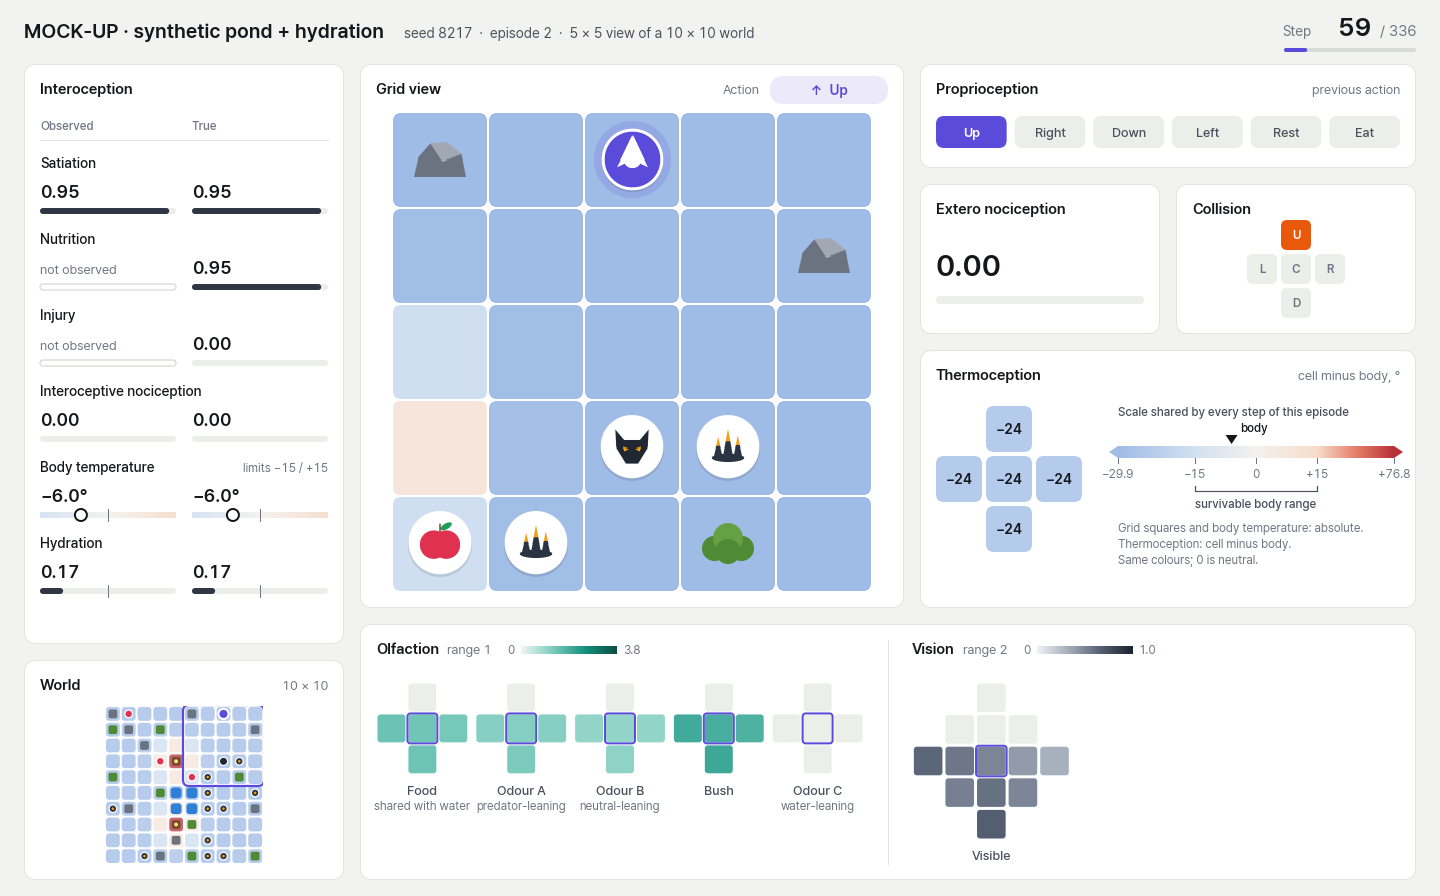
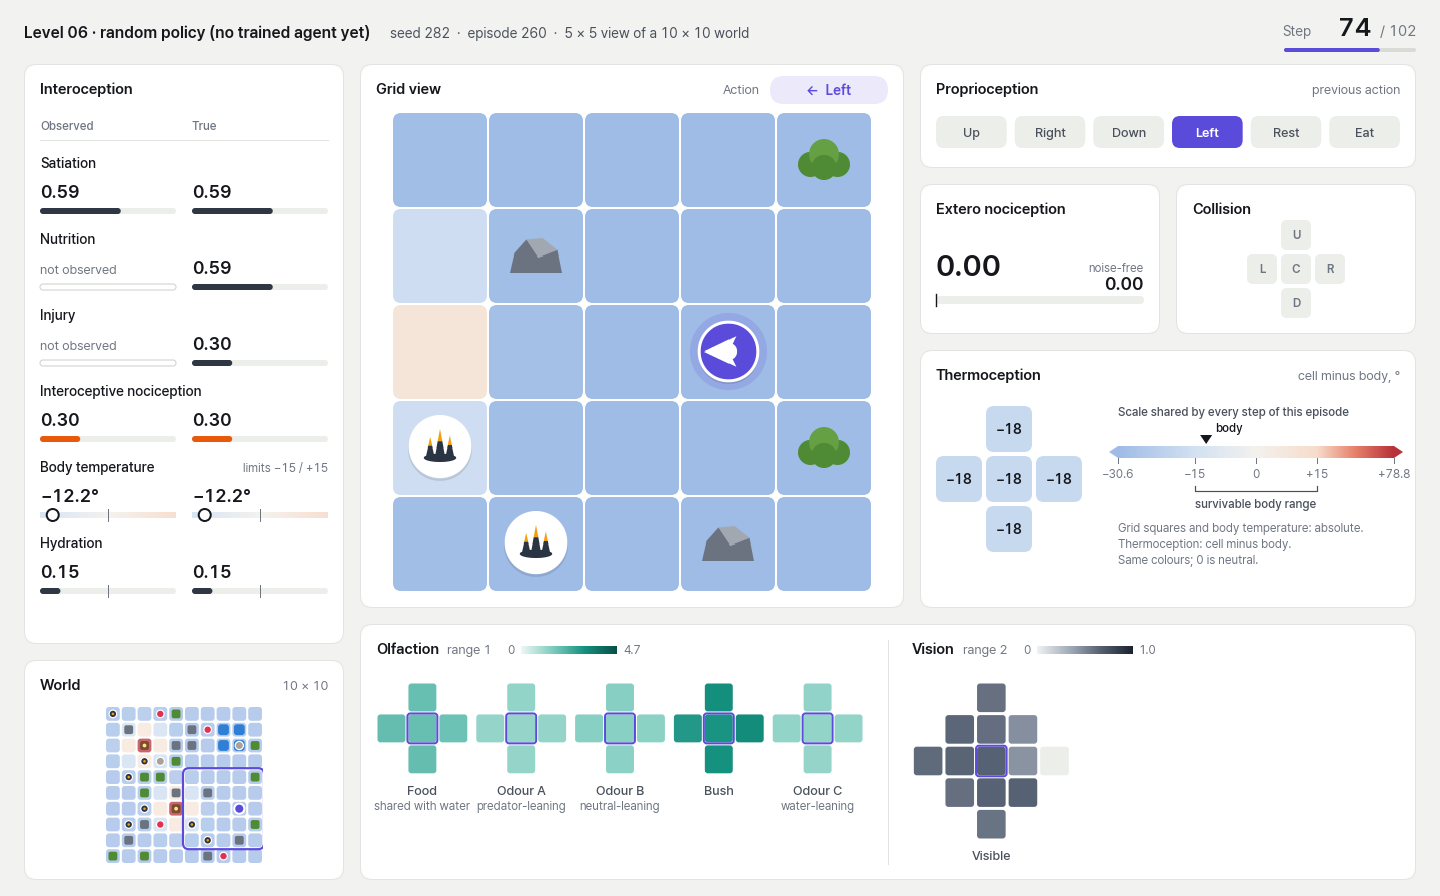
docs(thirst): 🖼 real level-06 dashboard frames replace the mock-ups
The three thirst-artifact frames are now REAL: the environment's own output for
the pond's position, hydration, the smell maps (Odour C now shows the pond's
actual odour, which the mock-up could not), vision, temperature and the cause of
death. There is no trained level-06 agent yet, so the episodes come from the
project's fixture recorder with a SEEDED RANDOM POLICY (400 episodes, two
seeds); the frame title says so. `make_render_frames.py` searches them for three
real moments and states each one's numbers:

- render_a: episode 260, step 74 of 102 -- agent 4+ squares from the pond,
  hydration 30/200 (0.15), injury 30/100; the episode continues.
- render_b: episode 258, step 9 of 48 -- agent in the pond, a predator in the
  adjacent pond cell, both drawn on top of the water; hydration 101/200, right
  on the setpoint tick; injury 6/100.
- render_c: episode 97, final step 53 -- hydration 0, injury 0: a clean thirst
  death while eating, from a start of 33/200.

Three search criteria were wrong on the way and are fixed, each noted in the
script: injury was compared on a 0..1 scale when it is 0..100 (rejected every
real thirst death); frame (b) ranked higher hydration as better and landed on an
over-drinking death (death sits at BOTH ends of the axis); frame (a) ranked
"thirstiest" and landed on hydration 0.0 one step before death. Each now targets
a clearly-alive band away from both death boundaries.
[…]

diff --git a/docs/develop/active/thirst/figures/make_render_frames.py b/docs/develop/active/thirst/figures/make_render_frames.py
@@ -1,16 +1,27 @@
-"""Mock-up frames for the thirst artifact: a REAL level-05 episode, with a
-SYNTHETIC pond and hydration injected, rendered through the real dashboard.
+"""Dashboard frames for the thirst artifact, from REAL level-06 recordings.
 
-What is real: the world, every entity's position at every step, the agent's
-actions, the olfaction/vision/thermal observations.
-What is synthetic: the pond's position (one fixed 2x2 block for the whole
-episode, as the env will do), the hydration values, `water_max_hydration=200`,
-and one "Hydration" observation dimension inserted at THIRST_WATER_PLAN A5's
-offset (directly after Body Temperature) carrying hydration/200 (noise off).
-NOT recomputed: the smell maps. They are the recording's level-05 smell, with
-the level-06 channel LABELS applied.
+Everything in these frames is the environment's own output: the pond's position,
+hydration, the smell maps (including the pond's odour), vision, temperature, and
+the cause of death. There is no trained level-06 agent yet, so the episodes are
+driven by the project's fixture recorder with a SEEDED RANDOM POLICY -- the agent's
+movements are not learned behaviour, and the frames say so in their title.
+
+The recordings are regenerated, not stored (they live under gitignored tmp/). Two
+batches, because a random walker rarely stands in the pond with a predator beside it
+and is not dying, so frame (b) needs the larger pool:
+
+    python scripts/eval/make_render_fixture_recordings.py --cells W1 \\
+        --episodes 80 --max-steps 300 --seed 11 \\
+        --out tmp/20260930_thirst_real/recordings --no-report
+    python scripts/eval/make_render_fixture_recordings.py --cells W1 \\
+        --episodes 320 --max-steps 300 --seed 23 \\
+        --out tmp/20260930_thirst_real/recordings_more --no-report
+
+This script then SEARCHES those episodes for three real moments and renders them:
+  (a) the agent far from the pond with low hydration,
+  (b) the agent standing in the pond with a predator next to it,
+  (c) an episode that ENDED because hydration reached zero (a real thirst death).
 """
-import copy
 import os
 import sys
 from pathlib import Path
@@ -24,172 +35,100 @@ ROOT = Path(__file__).resolve().parents[5]   # docs/develop/active/thirst/figure
 sys.path.insert(0, str(ROOT))
 
 import imageio.v2 as iio
-import src.environment.sensor as S
 from src.environment.dashboard import EpisodeRenderer
 from src.environment.state import select_by_class
 from src.utils.eval_recording import load_episode, load_run_meta
 
-REC = ROOT / "results/JAX_RecurrentPPO/20260921-114858_rppo_basicq2_lvl05_t1none_s42/recordings/10000058"
-EPISODE = "episode_000002.rec.gz"
-OUT = ROOT / "docs/develop/active/thirst/figures"
-MAXH = 200.0
-EDGE = 1   # plan D1: edge_margin 1 -- pond rows/cols 1..8 on a 10x10 world
+RECS = [ROOT / "tmp/20260930_thirst_real/recordings/W1/W1",
+        ROOT / "tmp/20260930_thirst_real/recordings_more/W1/W1"]
+OUT = Path(__file__).resolve().parent
+MAX_STEPS = 300
+for REC in RECS:
+    if not REC.is_dir():
+        sys.exit(f"recordings missing at {REC}; regenerate them with the commands in this "
+                 f"script's docstring (they are gitignored and not stored)")
 
-meta = load_run_meta(REC)
-params = copy.copy(meta["params"])
-object.__setattr__(params, "water_max_hydration", MAXH)
-object.__setattr__(params, "water_enabled", True)
-payload = load_episode(REC / EPISODE)
-snaps = payload["snapshots"]
-T = len(snaps)
-H, W = int(params.height), int(params.width)
+meta = load_run_meta(RECS[0])
+params = meta["params"]
+assert params.water_enabled, "W1 must be the water world (level 06)"
+MAXH = float(params.water_max_hydration)
 is_pred = np.asarray(select_by_class(params, "predator")).astype(bool)
+eps = [e for REC in RECS for e in sorted(REC.glob("episode_*.rec.gz"))]
 
 
-def blocked(t):
-    """Cells no pond may cover: obstacles and active resources (plan: every
-    other entity is placed after the pond and never on it)."""
-    s = snaps[t]
-    cells = {tuple(map(int, p)) for p in np.asarray(s["obs_pos"])}
-    act = np.asarray(s["res_active"])
-    cells |= {tuple(map(int, p)) for i, p in enumerate(np.asarray(s["res_pos"])) if act[i]}
-    return cells
+def cheb(a, b):
+    return max(abs(int(a[0]) - int(b[0])), abs(int(a[1]) - int(b[1])))
 
 
-def block(r, c):
-    return [(r, c), (r, c + 1), (r + 1, c), (r + 1, c + 1)]
+def pond_of(s):
+    return [tuple(map(int, p)) for p in np.asarray(s["water_pos"])]
 
 
-def legal(r, c):
-    return EDGE <= r and r + 1 <= H - 1 - EDGE and EDGE <= c and c + 1 <= W - 1 - EDGE
+best = {"a": None, "b": None, "c": None}
+for ep in eps:
+    pay = load_episode(ep)
+    snaps = pay["snapshots"]
+    T = len(snaps)
+    for t, s in enumerate(snaps):
+        a = tuple(map(int, s["agent_pos"]))
+        pond = pond_of(s)
+        h = float(s["hydration"]) / MAXH
+        d = min(cheb(a, p) for p in pond)
+        preds = [tuple(map(int, q)) for k, q in enumerate(np.asarray(s["animal_pos"])) if is_pred[k]]
+        # (a) far from water and THIRSTY, but clearly alive: not the last step, injury
+        # not lethal, hydration low but off the zero boundary. Ranking by "thirstiest"
+        # drove an earlier version onto hydration 0.0 one step before death -- a death
+        # frame, not a thirsty one -- so aim at ~15% of the maximum instead.
+        inj_a = float(s["injury_level"]) / float(params.max_injury)
+        if d >= 4 and 0.08 < h < 0.3 and inj_a < 0.5 and t < T - 1:
+            key = (abs(h - 0.15),)
+            if best["a"] is None or key < best["a"][0]:
+                best["a"] = (key, ep, t)
+        # (b) standing in the pond, a predator within one square (both in the pond is
+        # best). Drinking, not dying: never the episode's last step, injury not
+        # lethal, and hydration clear of BOTH death boundaries -- death sits at 0 AND
+        # at the maximum, so a full reading here would be an over-drinking death. An
+        # earlier version ranked higher hydration as better and picked exactly that.
+        inj = float(s["injury_level"]) / float(params.max_injury)
+        if a in pond and t < T - 1 and inj < 0.5 and 0.05 < h < 0.95:
+            near = [q for q in preds if cheb(q, a) <= 1]
+            if near:
+                key = (-sum(q in pond for q in near), abs(h - 0.5))
+                if best["b"] is None or key < best["b"][0]:
+                    best["b"] = (key, ep, t)
+    # (c) the episode ENDED (not cut at the step cap) with hydration at zero, and its
+    # injury clearly NOT lethal, so the frame shows one cause of death, not two.
+    # Injury is on a 0..max_injury scale (100 here), NOT 0..1 -- an earlier version
+    # compared the raw value against 1.0 and rejected every real thirst death.
+    last = snaps[-1]
+    inj = float(last["injury_level"]) / float(params.max_injury)
+    if T < MAX_STEPS and float(last["hydration"]) <= 1e-6 and inj < 0.5:
+        key = (inj, -T)                      # least injured, then the longest
+        if best["c"] is None or key < best["c"][0]:
+            best["c"] = (key, ep, T - 1)
 
+missing = [k for k, v in best.items() if v is None]
+if missing:
+    sys.exit(f"no real moment found for frame(s) {missing}; record more episodes")
 
-# --- (b): a step where a predator is next to the agent, both fit one 2x2 pond ---
-fixed_blocked = set().union(*(blocked(t) for t in range(T)))   # never cover any of them, any step
-choice = None
-for t in range(T):
-    a = tuple(map(int, snaps[t]["agent_pos"]))
-    for k, p in enumerate(np.asarray(snaps[t]["animal_pos"])):
-        if not is_pred[k]:
-            continue
-        p = tuple(map(int, p))
-        if p == a or max(abs(p[0] - a[0]), abs(p[1] - a[1])) != 1:
-            continue
-        for r in range(min(a[0], p[0]) - 1, max(a[0], p[0]) + 1):
-            for c in range(min(a[1], p[1]) - 1, max(a[1], p[1]) + 1):
-                cells = block(r, c)
-                if legal(r, c) and a in cells and p in cells \
-                        and not (set(cells) & fixed_blocked):
-                    choice = (t, r, c, a, p)
-                    break
-            if choice:
-                break
-        if choice:
-            break
-    if choice:
-        break
-if choice is None:
-    sys.exit("no step puts a predator next to the agent inside a legal pond block")
-tb, pr, pc, a_b, p_b = choice
-pond = np.array(block(pr, pc), dtype=np.int32)       # [4, 2], every cell, like D2
-
-# --- (a): a step where the agent is far from that pond ---
-def dist_to_pond(t):
-    a = np.asarray(snaps[t]["agent_pos"])
-    return min(max(abs(int(a[0]) - r), abs(int(a[1]) - c)) for r, c in pond)
-ta = max((t for t in range(T) if t != tb), key=lambda t: (dist_to_pond(t) >= 4, -abs(t - tb) * 0, dist_to_pond(t)))
-# --- (c): a CLEAN thirst death. The episode's real final step is a predator
-# kill (injury 1.00), so using it would show two lethal causes at once. Pick
-# instead the latest step with no injury, no predator within one square, and
-# the agent at least 3 squares from the pond; the episode is then TRUNCATED
-# there so the step counter reads k/k. Both facts are stated in the reply.
-def pred_near(t):
-    a = np.asarray(snaps[t]['agent_pos'])
-    for k, q in enumerate(np.asarray(snaps[t]['animal_pos'])):
-        if is_pred[k] and max(abs(int(q[0]) - int(a[0])), abs(int(q[1]) - int(a[1]))) <= 1:
-            return True
-    return False
-clean = [t for t in range(T) if t not in (ta, tb)
-         and float(snaps[t]['injury_level']) == 0.0 and not pred_near(t)
-         and dist_to_pond(t) >= 3]
-if not clean:
-    sys.exit('no clean step for a thirst-death frame')
-tc = max(clean)
-
-HYD = {ta: 34.0, tb: 104.0, tc: 0.0}   # scripted; stated in the reply
-
-# --- inject into every snapshot (pond is fixed per episode) ---
-for t, s in enumerate(snaps):
-    s["water_pos"] = pond
-    s["hydration"] = float(HYD.get(t, 100.0))
-
-# --- one "Hydration" observation dim, directly after Body Temperature (A5) ---
-orig_breakdown = S.get_observation_breakdown
-
-
-def breakdown_with_hydration(p):
-    out = {}
-    for k, v in orig_breakdown(p).items():
-        out[k] = v
-        if k == "Body Temperature":
-            out["Hydration"] = 1
-    return out
-
-
-bd = orig_breakdown(params)
-offset = 0
-for k, v in bd.items():
-    offset += v
-    if k == "Body Temperature":
-        break
-obs = np.asarray(payload["obs"], dtype=np.float32)
-hcol = np.array([snaps[t]["hydration"] / MAXH for t in range(T)], dtype=np.float32)[:, None]
-payload["obs"] = np.concatenate([obs[:, :offset], hcol, obs[:, offset:]], axis=1)
-S.get_observation_breakdown = breakdown_with_hydration
-
-# --- level-06 channel labels (smell), per the thirst session ---
-names = lambda xs: [{"name": n, "qualifier": q} for n, q in xs]
-display = {
-    "Olfaction": {"names": names([
-        ("Food", "shared with water"), ("Odour A", "predator-leaning"),
-        ("Odour B", "neutral-leaning"), ("Bush", ""), ("Odour C", "water-leaning")]),
-        "groups": []},
-    "Visual": {"names": names([("Visible", "")]), "groups": []},
-}
-
-OUT.mkdir(parents=True, exist_ok=True)
-r = EpisodeRenderer(params, meta["icon_config"], payload,
-                    title="MOCK-UP · synthetic pond + hydration",
-                    action_map=meta.get("action_map"), channel_display=display)
-try:
-    for tag, t, what in (("a", ta, "far_from_pond_low_hydration"),
-                         ("b", tb, "drinking_predator_in_pond")):
-        path = OUT / f"render_{tag}_{what}.png"
+names = {"a": "render_a_far_from_pond_low_hydration",
+         "b": "render_b_drinking_predator_in_pond",
+         "c": "render_c_hydration_zero_terminal"}
+for tag in ("a", "b", "c"):
+    _key, ep, t = best[tag]
+    pay = load_episode(ep)
+    r = EpisodeRenderer(params, meta["icon_config"], pay,
+                        title="Level 06 · random policy (no trained agent yet)",
+                        action_map=meta.get("action_map"),
+                        channel_display=meta.get("channel_display"))
+    try:
+        path = OUT / f"{names[tag]}.png"
         iio.imwrite(path, r.frame(t))
-        a = tuple(map(int, snaps[t]["agent_pos"]))
-        print(f"{path.relative_to(ROOT)}  step={t}  agent={a}  "
-              f"hydration={snaps[t]['hydration']:.0f}/200  dist_to_pond={dist_to_pond(t)}")
-finally:
-    r.close()
-
-# --- (c) from a payload TRUNCATED at tc, so the counter reads tc/tc ---
-trunc = dict(payload)
-trunc['snapshots'] = snaps[:tc + 1]
-trunc['obs'] = payload['obs'][:tc + 1]
-trunc['actions'] = np.asarray(payload['actions'])[:tc + 1]
-trunc['rewards'] = np.asarray(payload['rewards'])[:tc + 1]
-rc = EpisodeRenderer(params, meta['icon_config'], trunc,
-                     title='MOCK-UP · synthetic pond + hydration',
-                     action_map=meta.get('action_map'), channel_display=display)
-try:
-    path = OUT / 'render_c_hydration_zero_terminal.png'
-    iio.imwrite(path, rc.frame(tc))
-    a = tuple(map(int, snaps[tc]['agent_pos']))
-    print(f"{path.relative_to(ROOT)}  step={tc} (episode truncated here; real end {T-1})  "
-          f"agent={a}  hydration={snaps[tc]['hydration']:.0f}/200  "
-          f"injury={float(snaps[tc]['injury_level']):.2f}  dist_to_pond={dist_to_pond(tc)}")
-finally:
-    rc.close()
-    S.get_observation_breakdown = orig_breakdown
-print(f"pond top-left (array)={pr, pc}  cells={[tuple(x) for x in pond]}  "
-      f"frame-b predator at {p_b}, agent at {a_b}  obs width {obs.shape[1]} -> {payload['obs'].shape[1]}")
+    finally:
+        r.close()
+    s = pay["snapshots"][t]
+    a = tuple(map(int, s["agent_pos"]))
+    print(f"{path.relative_to(ROOT)}  {ep.parent.parent.parent.name}/{ep.name} step {t}/{len(pay['snapshots']) - 1}  "
+          f"agent={a}  pond={pond_of(s)[0]}+  hydration={float(s['hydration']):.1f}/{MAXH:.0f}  "
+          f"injury={float(s['injury_level']):.1f}/{float(params.max_injury):.0f}  "
+          f"start hydration={float(pay['snapshots'][0]['hydration']):.1f}")
